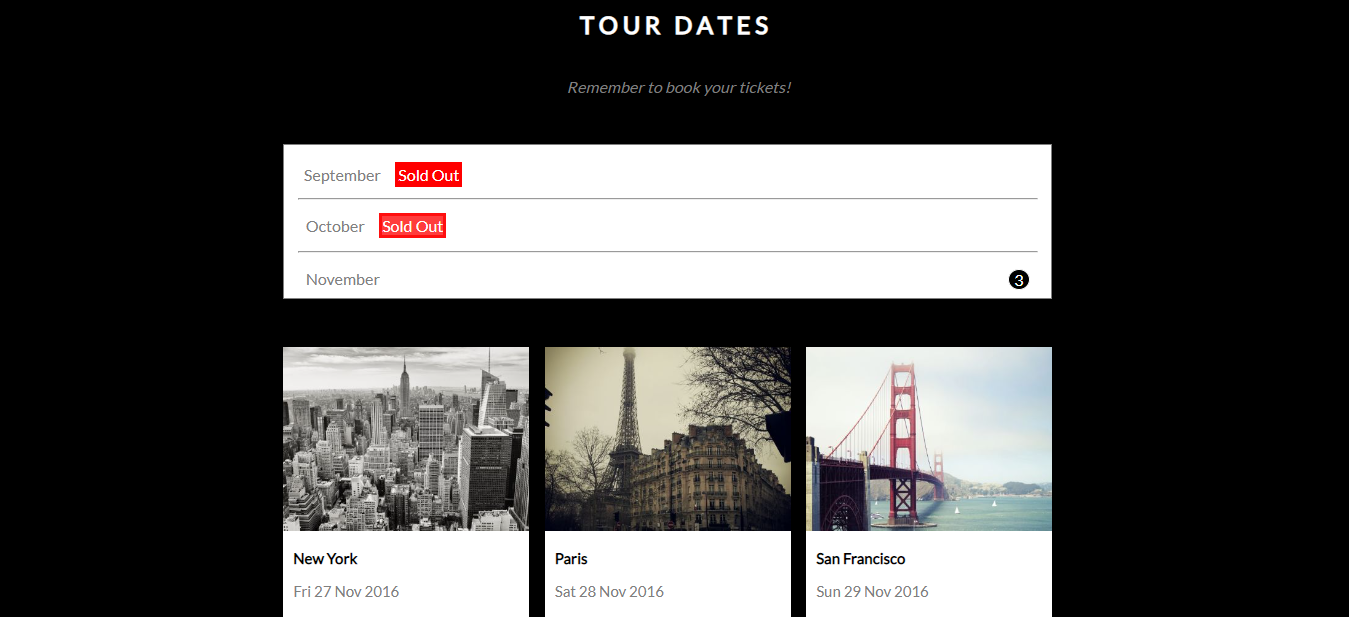
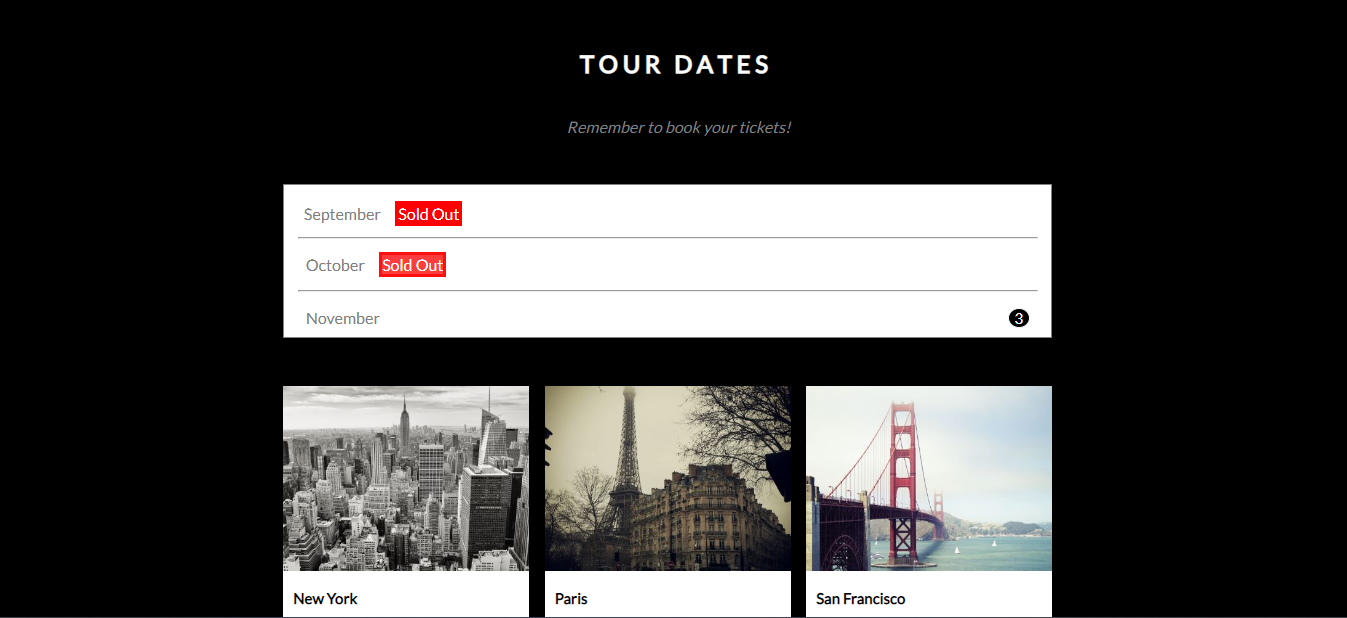
ufak düzenlemeler yapıldı

diff --git a/style.css b/style.css
@@ -13,9 +13,9 @@ body {
     background-color: #000;
     height: 100%;
     max-width: 100%;
-    font-size: 15px;
+    font-size: 10px;
     list-style: none;
-    padding: 14px;
+    padding: 10px;
 }
 
 .menu li {
@@ -24,7 +24,7 @@ body {
 
 .yazi {
     color: #fff;
-    margin-left: 25px;
+    margin-left: 10px;
     padding: 10px;
     text-decoration: none;
 }
@@ -39,7 +39,7 @@ body {
 }
 
 .dropbtn {
-    font-size: 15px;
+    font-size: 10px;
     margin-left: 10px;
     border: none;
     color:#fff;
@@ -81,11 +81,16 @@ body {
     color: #000;
 }
 
+.imgbut {
+    padding: 5px;
+}
+
 .search {
-    width: 20px;
-    height: 20px; 
+    width: 15px;
+    height: 15px; 
+    margin-top: 6px;
     float: right;
-    margin-right: 15px;
+    margin-right: 2px;
     color: white;
 }
 
@@ -125,10 +130,11 @@ body {
 
 .anadiv {
     margin-top: auto;
-    margin-left: 15%;
-    float: left;
+    /* margin-left: 50%; */
+    /* float: left; */
     display: flex;
     align-items: center;
+    justify-content: center;
 }
 
 .d1 {
@@ -176,32 +182,33 @@ body {
 .tour {
     background-color: #000;
     width: 100%;
-    height: 1700px;
-    margin-top: 1000px;
+    height: 1900px;
+    margin-top: 100px;
     min-width: 100%;
 }
 
 .tourh1 {
     color: #fff;
     text-align: center;
-    position: absolute;
-    margin-left: 27%;
-    margin-right: 25%;
-    margin-top: 10%;
+    position: relative;
+    top: 60px;
+    margin-top: 12%;
 }
 
 .tourp1 {
     color: grey;
-    position: absolute;
-    margin-left: 25%;
-    margin-top: 20%;
+    position: relative;
+    text-align: center;
+    top: 75px;
 }
 
 .list {
-    position: absolute;
-    margin-top: 35%;
-    margin-left: 3%;
-    width: 95%;
+    position: relative;
+    justify-content: center;
+    size: 150px;
+    margin-top: 130px;
+    margin-left: 3.6%;
+    margin-right: 3.6%;
     max-height: 27%;
     padding: 1%;
     border: 1px;
@@ -241,10 +248,12 @@ body {
 
 .sp3 {
     float: right;
+    font-size: 14px;
+    margin-top: 2px;
     border: 1px;
     border-style: solid;
     border-radius: 50%;
-    width: auto;
+    width: 20px;
     height: 3%;
     text-align: center;
     background-color: #000;
@@ -252,18 +261,17 @@ body {
 }
 
 .card {
-    margin-top: 70%;
-    margin-left: 2%;
+    margin-top: 2%;
     max-width: 100%;
-    gap: 2%;
-    padding: 5%;
-    position: absolute;
+    padding: 0px 15px;
+    position: relative;
+    justify-content: center;
     flex-direction: column;
 }
 
 .ny {
     width: 100%;
-    height: 35%;
+    height: 40%;
     background-color: #fff;
 }
 
@@ -322,19 +330,19 @@ body {
 
 .ch {
     margin-top: 7%;
-    margin-left: 35%;
+    text-align: center;
     font-weight: normal;
 }
 
 .cp {
     margin-top: 2%;
-    margin-left: 35.5%;
+    text-align: center;
     color: grey;
 }
 
 .bilgi {
     margin-top: 10%;
-    margin-left: 1%;
+    text-align: center;
 }
 
 .logo {
@@ -354,19 +362,20 @@ body {
 }
 
 .cont1 {
-    margin-left: 2%;
+    padding: 0px 44px;
     position:absolute;
-    margin-top: 5%;
+    margin-top: 1%;
     border: 1px;
 }
 
 .name {
-    width: 360px;
+    width: 312px;
     height: 30px;
+    margin-top: 20px;
 }
 
 .message {
-    width: 360px;
+    width: 312px;
     height: 35px;
 }
 
@@ -385,7 +394,7 @@ body {
 /* Map CSS */
 
 .map {
-    margin-top: 250px;
+    margin-top: 260px;
     width: 100%;
     height: 100%;
 }
@@ -656,6 +665,7 @@ body {
 .sp3 {
     float: right;
     border: 1px;
+    font-size: 15px;
     border-style: solid;
     border-radius: 50%;
     width: 3%;

diff --git a/index.html b/index.html
@@ -18,7 +18,7 @@
         <li><a href="#tour" class="yazi">TOUR</a></li>
         <li></li><a href="#contact" class="yazi">CONTACT</a></li>
         <div class="dropdown">
-            <button class="dropbtn">MORE <i class="fa-solid fa-caret-down"></i></button>
+            <button class="dropbtn">MORE<i class="fa-solid fa-caret-down imgbut"></i></button>
             <div class="dropdown-content">
               <a href="#">Merchandise</a>
               <a href="#">Extras</a>
